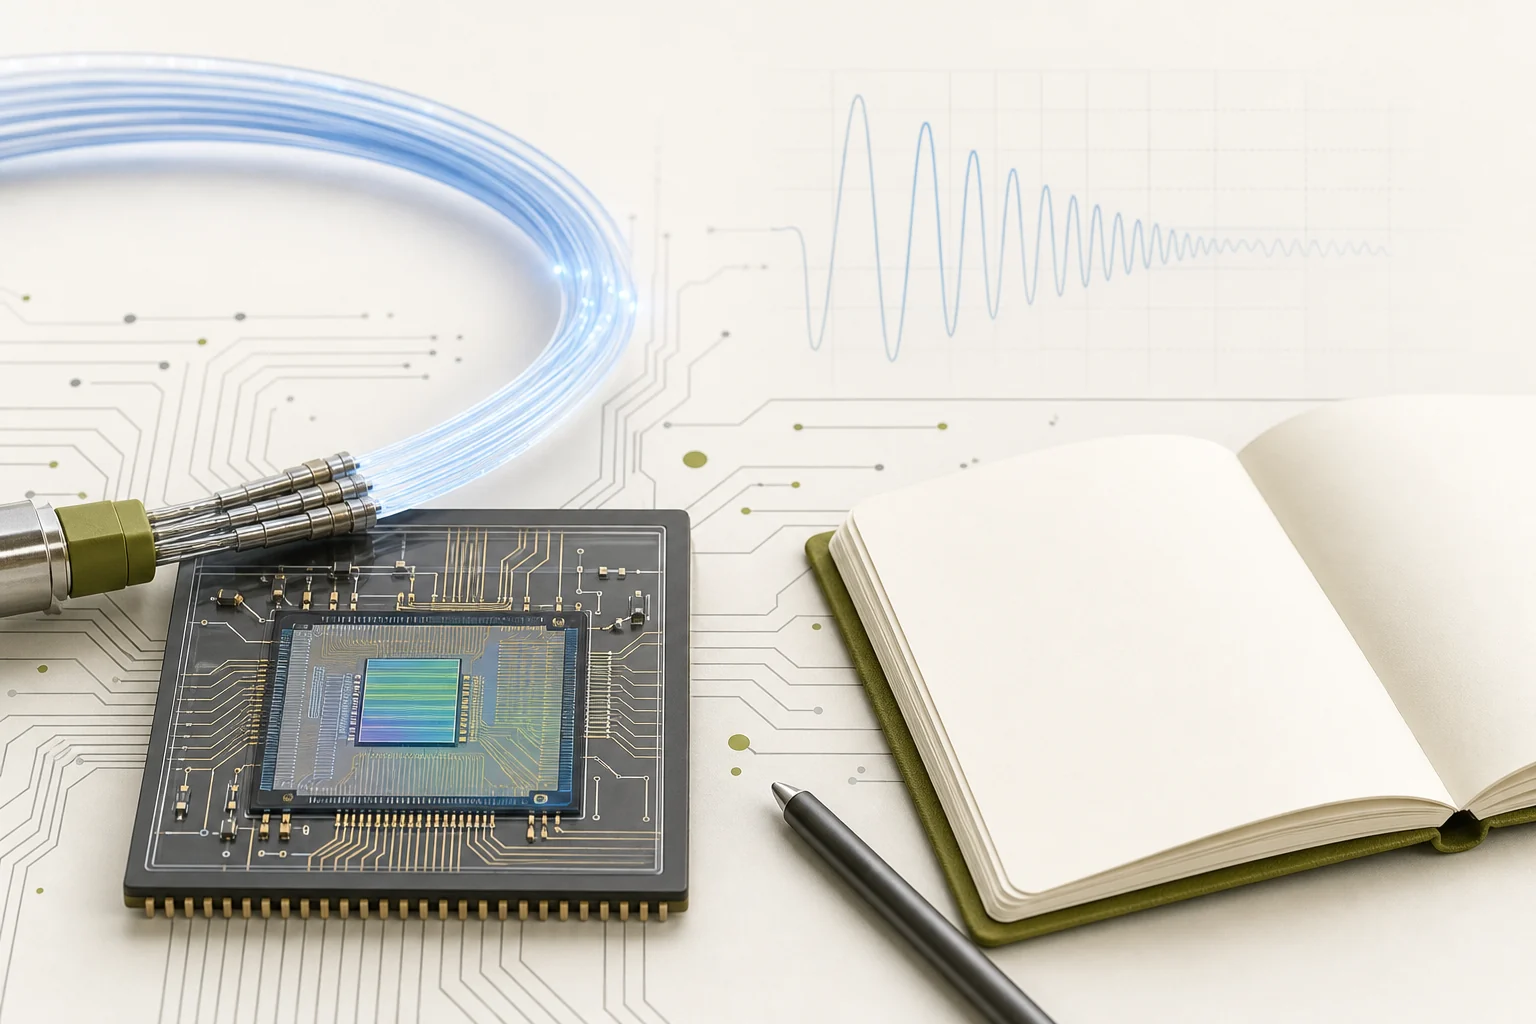
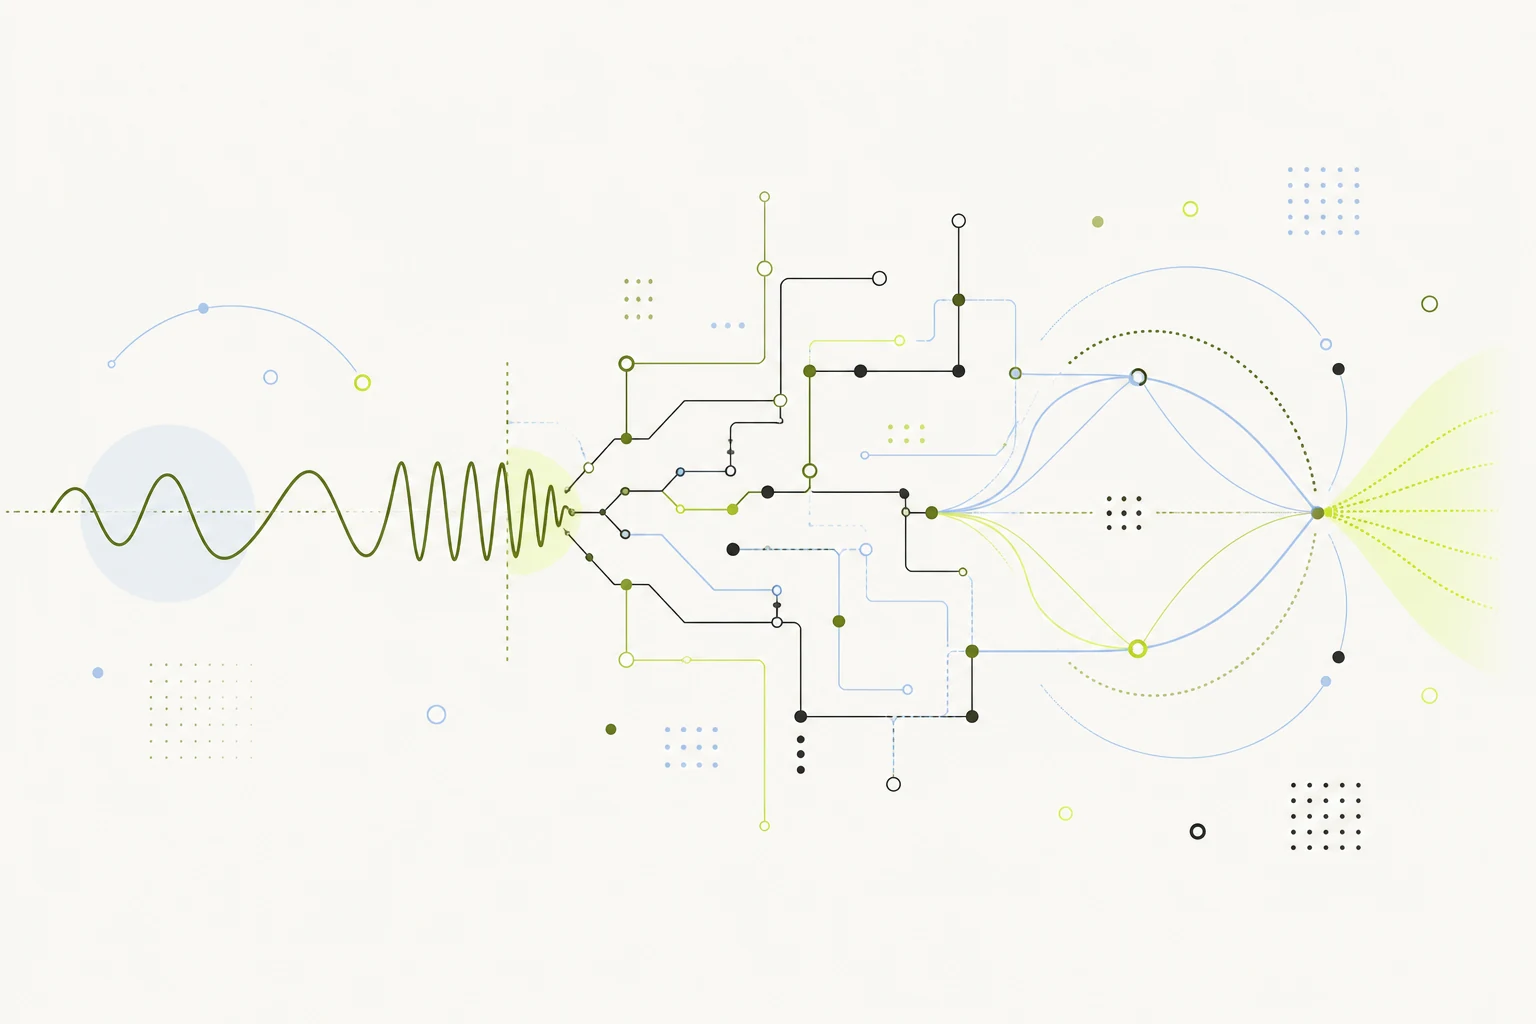
Replace mixed-style visuals with abstract artwork

diff --git a/content/pages/research.html b/content/pages/research.html
@@ -5,7 +5,7 @@
     <p class="research-lead">My research focuses on silicon photonic devices enhanced with functional materials. I explore how light can be switched, controlled and stored efficiently, and how these devices can support neuromorphic information processing.</p>
   </div>
   <figure class="section-intro-visual">
-    <img src="/jorpago2/assets/media/generated/research-integrated-photonics.webp" width="1536" height="1024" alt="Light propagating through an integrated photonic circuit with a functional-material element.">
+    <img src="/jorpago2/assets/media/generated/research-integrated-photonics.webp?v=2" width="1536" height="1024" alt="Abstract composition of optical paths, interference and reconfigurable material states.">
   </figure>
 </section>
 

diff --git a/content/pages/teaching.html b/content/pages/teaching.html
@@ -5,7 +5,7 @@
     <p class="teaching-lead">My teaching covers electronic circuits, analogue and digital electronics, high-frequency systems, communications and photonic devices. I combine conceptual foundations with laboratory work and numerical tools.</p>
   </div>
   <figure class="section-intro-visual">
-    <img src="/jorpago2/assets/media/generated/teaching-electronics-photonics.webp" width="1536" height="1024" alt="An optical fibre, electronic circuit, signal trace and open notebook representing photonics education.">
+    <img src="/jorpago2/assets/media/generated/teaching-electronics-photonics.webp?v=2" width="1536" height="1024" alt="Abstract progression from a waveform to electronic and photonic paths.">
   </figure>
 </section>
 
